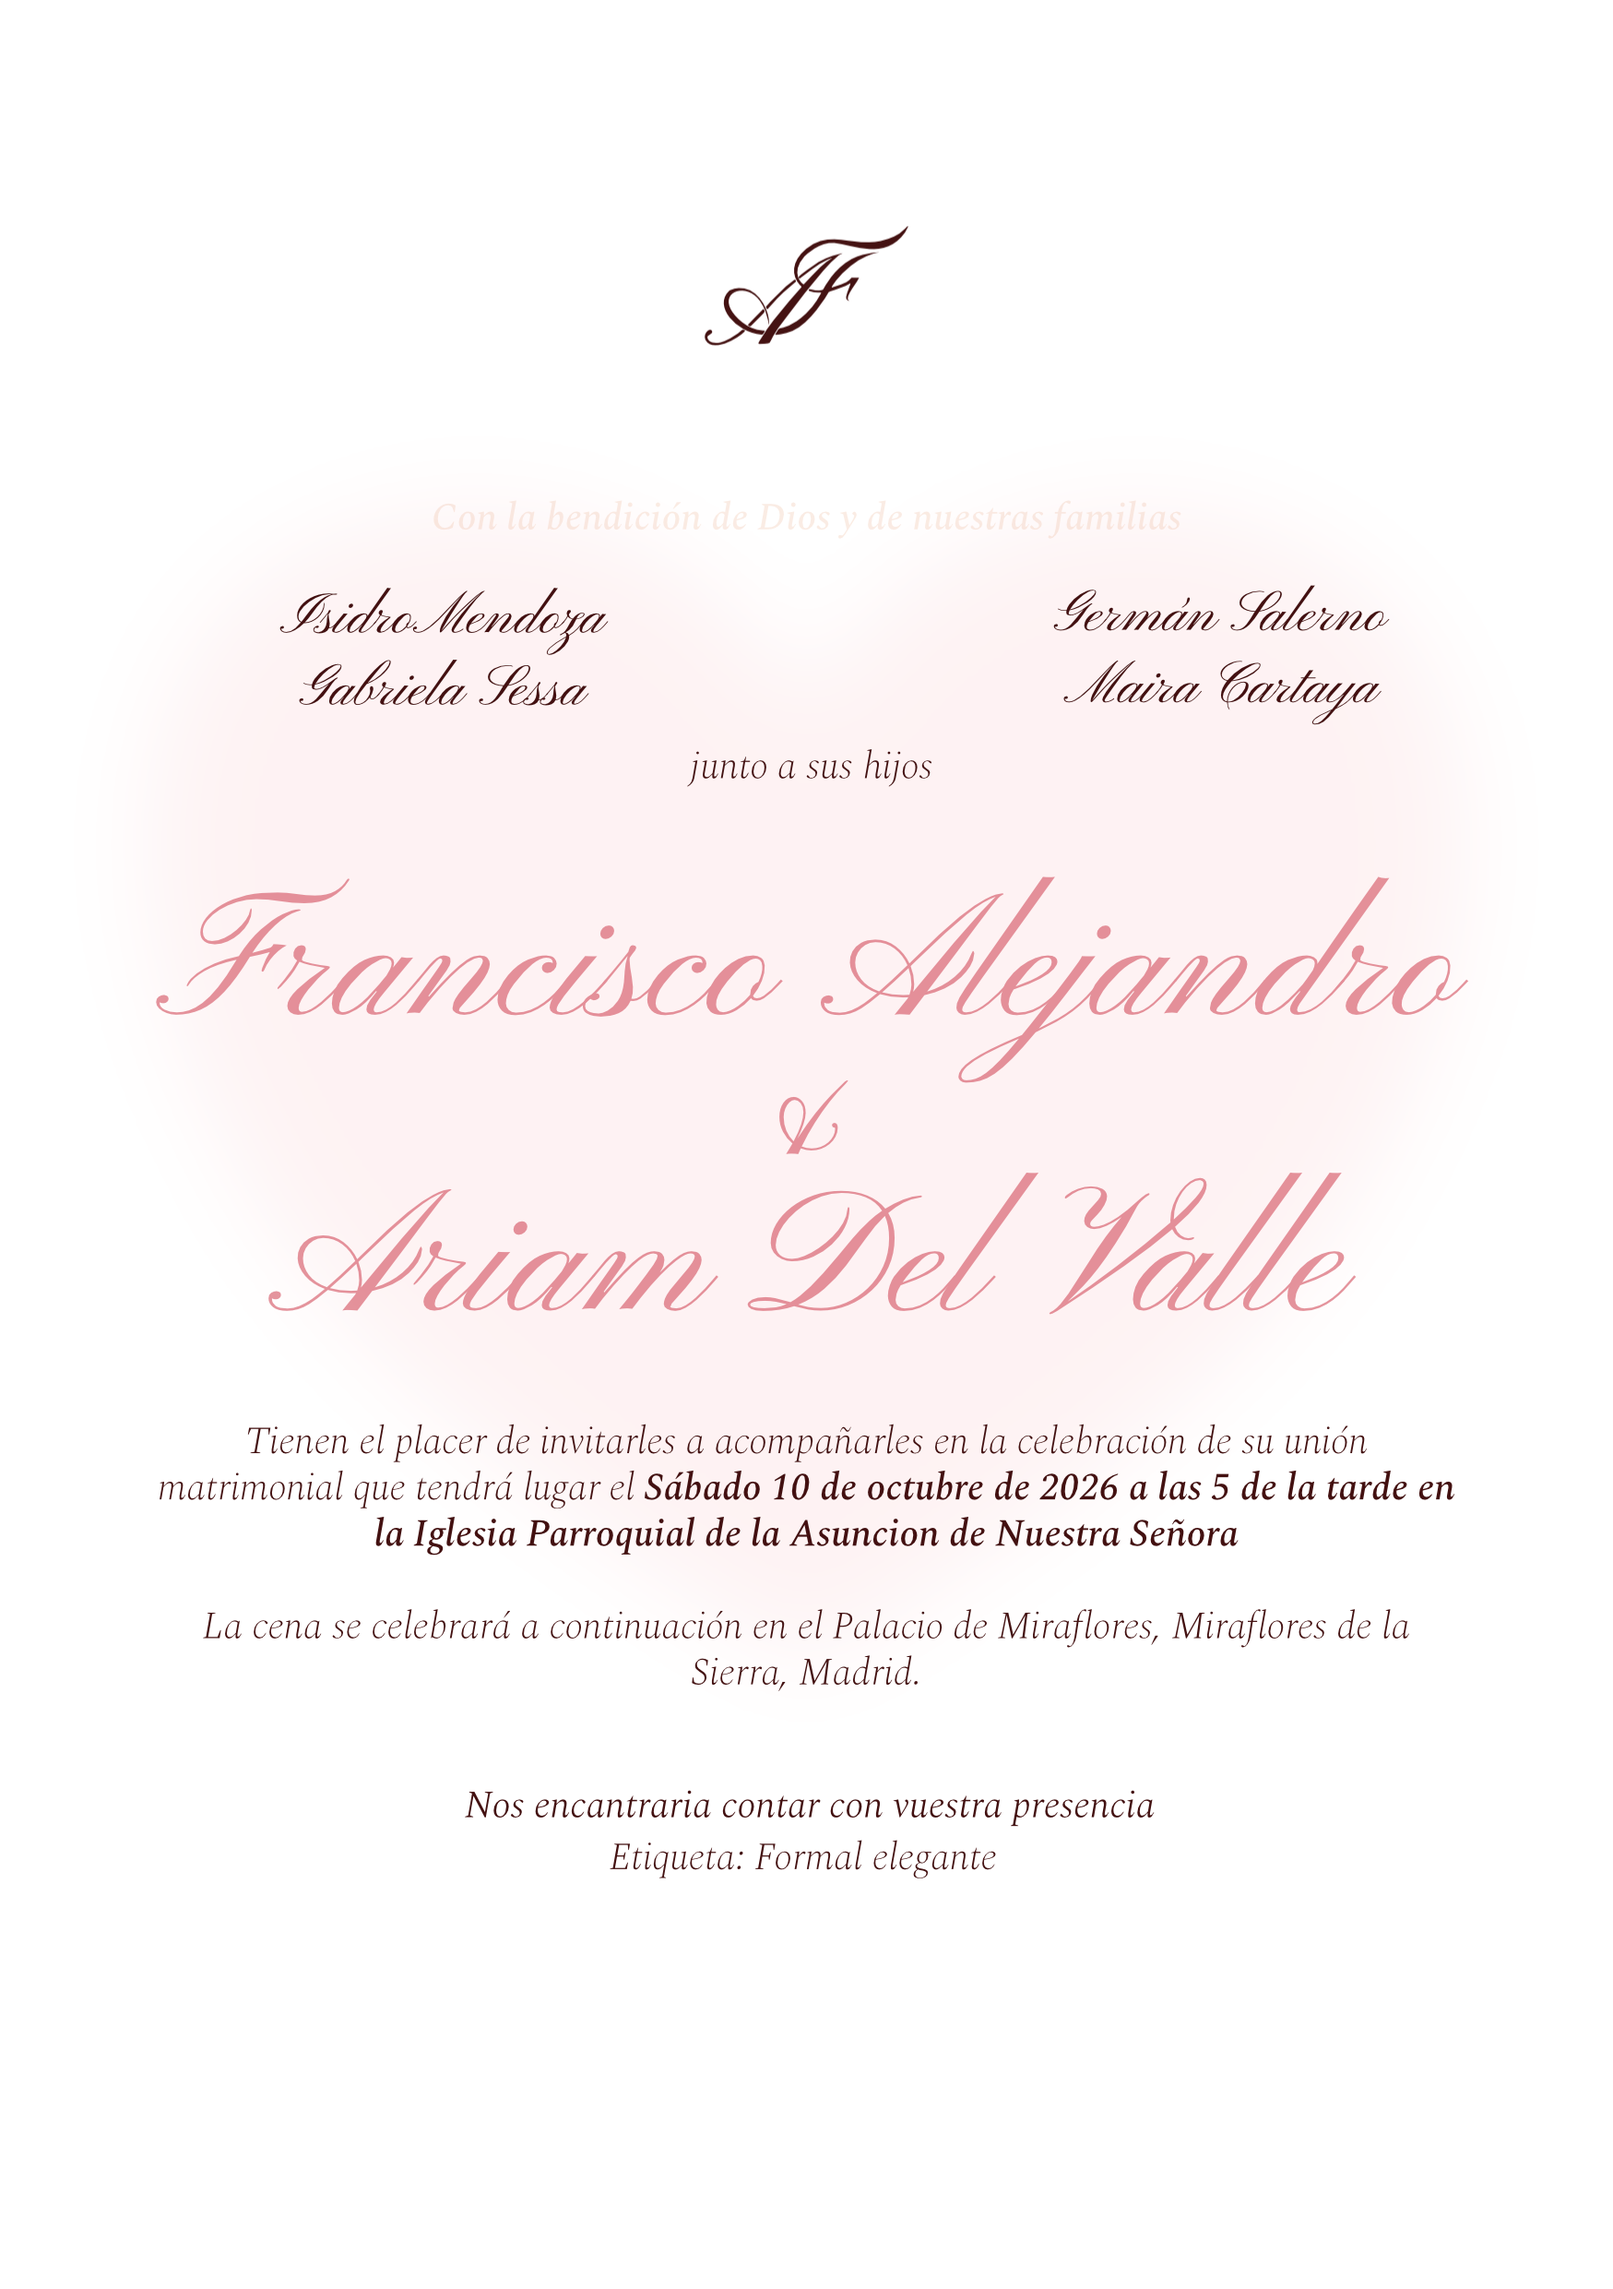
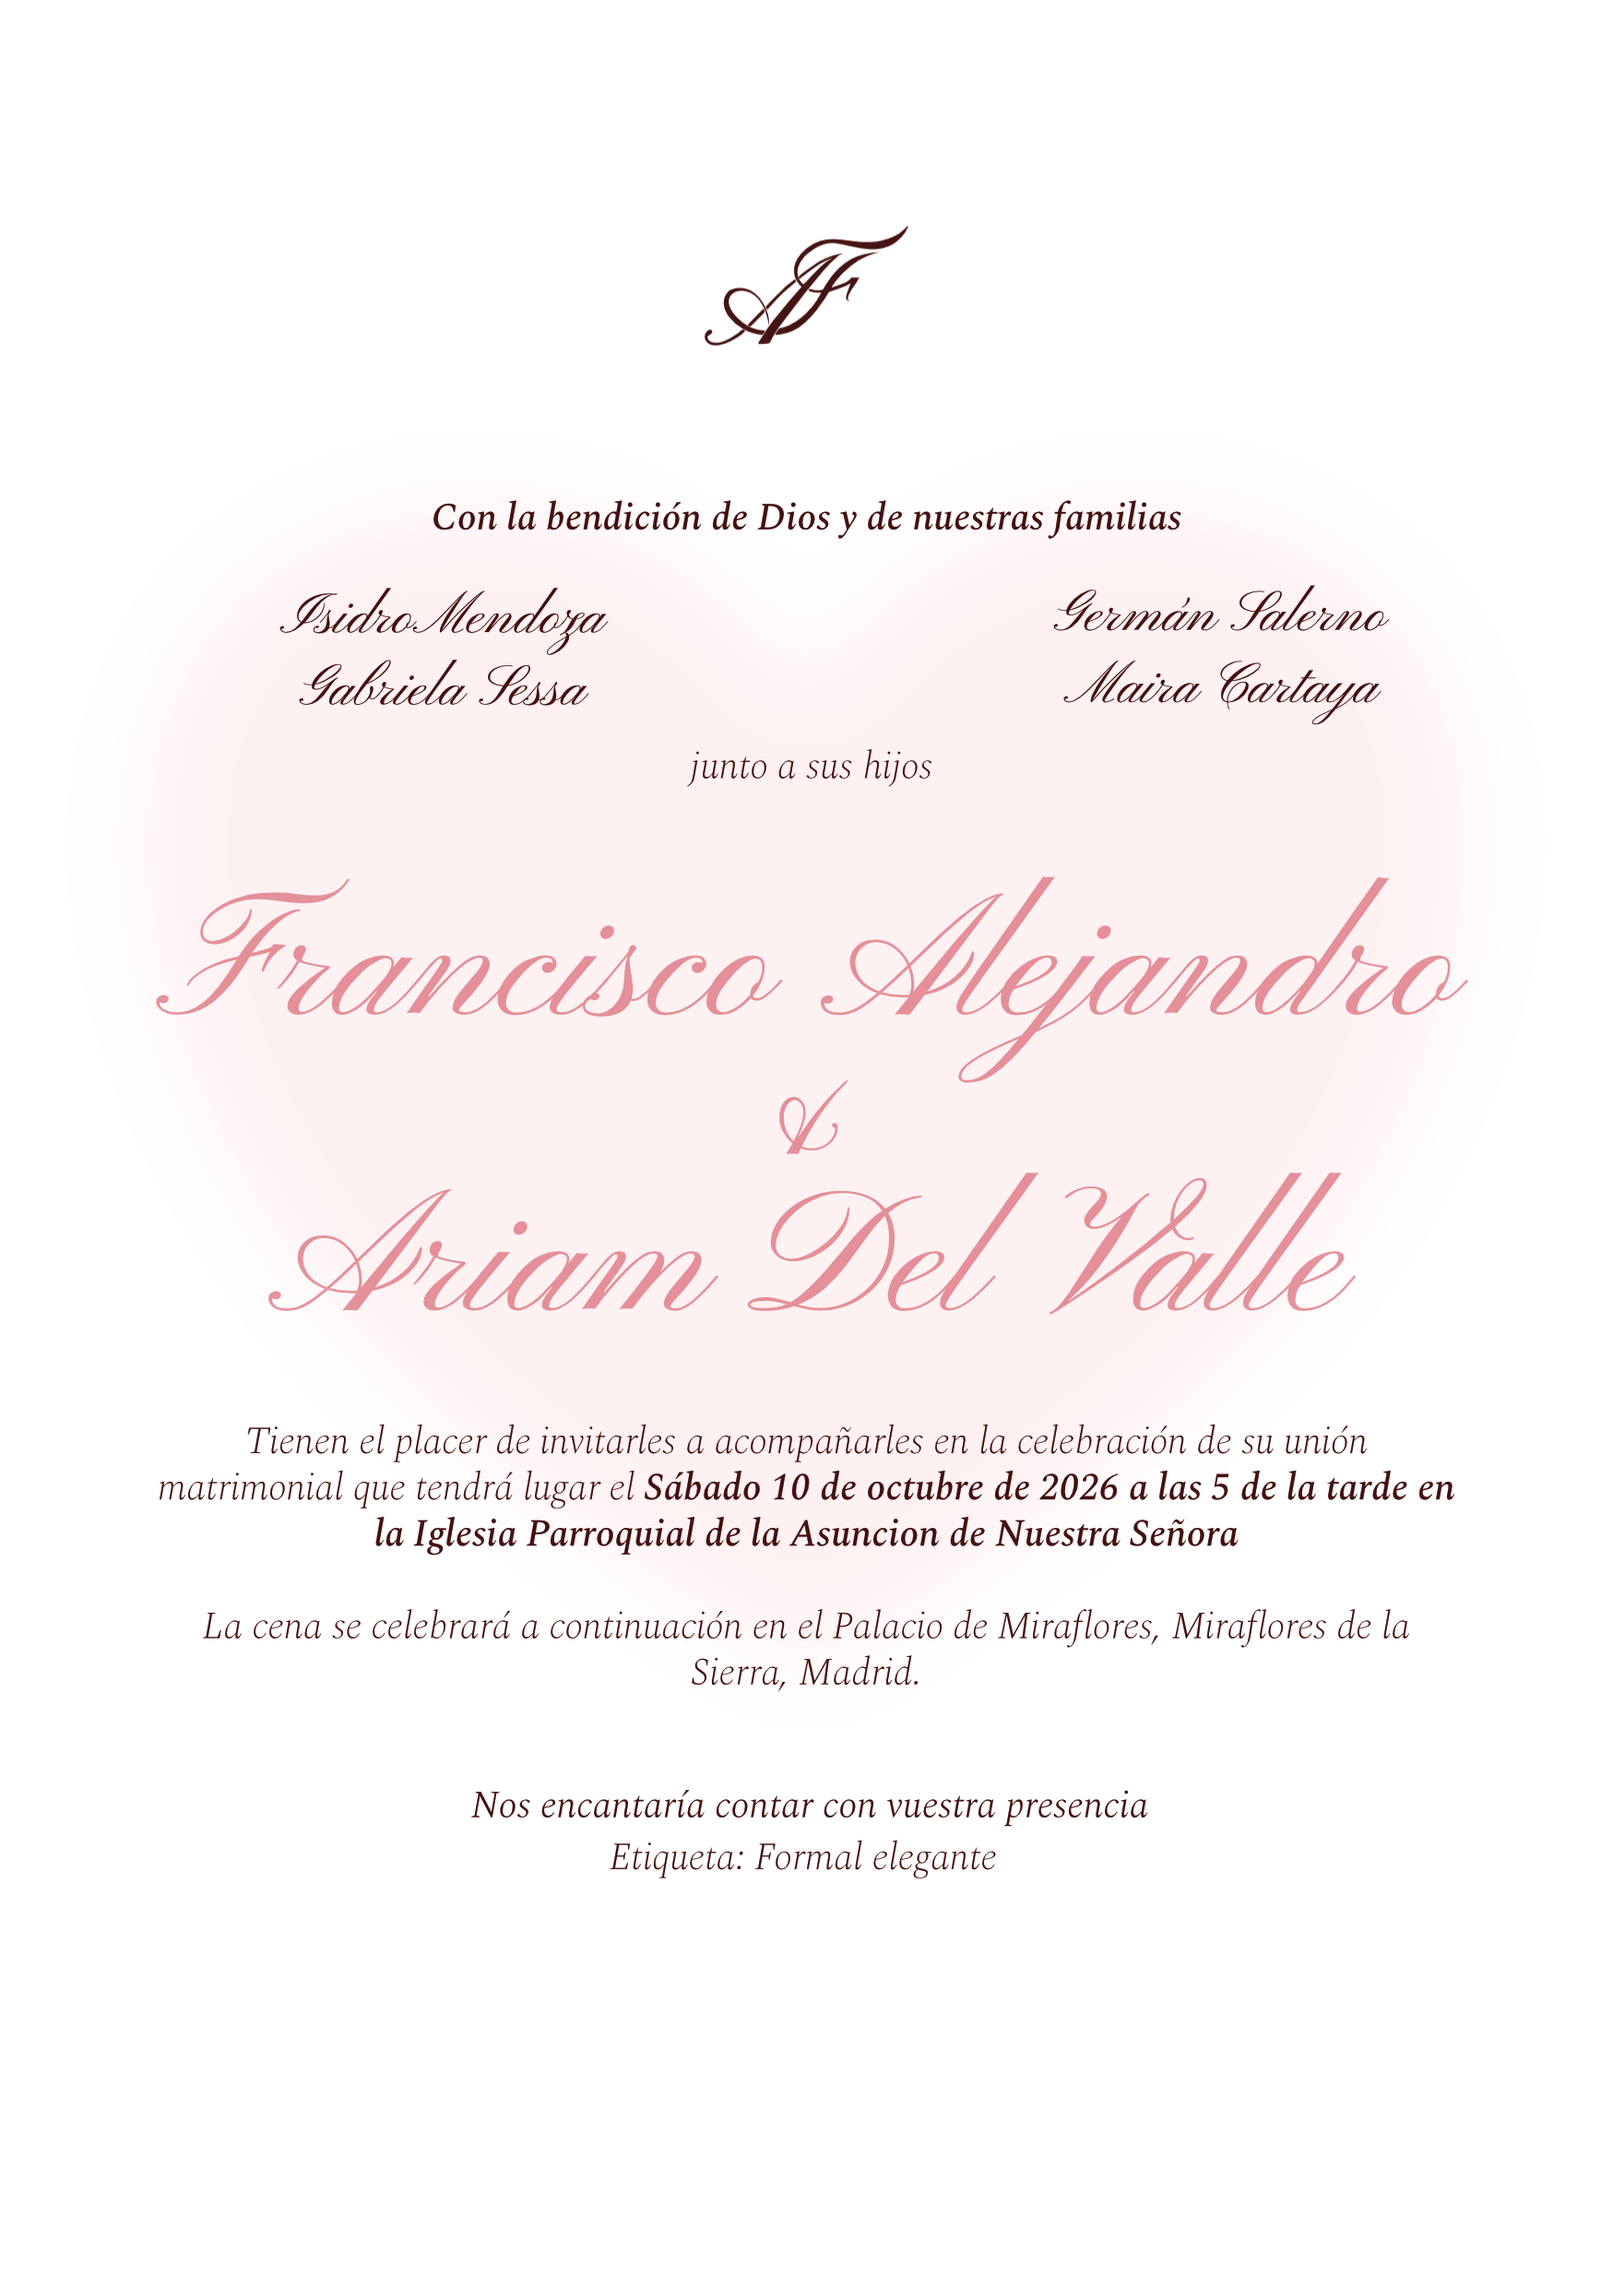
Update invitation assets and copy

diff --git a/index.html b/index.html
@@ -1,4 +1,4 @@
-<!DOCTYPE html>
+<!doctype html>
 <html lang="es">
   <head>
     <meta charset="UTF-8" />
@@ -97,7 +97,7 @@
             </p>
             <p>
               Mientras contamos los días para nuestra boda, hemos creado esta
-              web para mantenerles al tanto de lo que va ocurriendo.
+              web para que puedan conocer todos los detalles
             </p>
           </div>
         </div>
@@ -143,9 +143,9 @@
             <h2>La Celebración</h2>
             <p class="detail-item">
               <strong>El menú</strong><br />
-              En el <a href="rsvp.html">formulario de RSVP</a> podrán
-              indicarnos sus preferencias alimentarias o cualquier alergia que
-              debamos tener en cuenta.
+              En el <a href="rsvp.html">formulario de RSVP</a> podrán indicarnos
+              sus preferencias alimentarias o cualquier alergia que debamos
+              tener en cuenta.
             </p>
             <p class="detail-item">
               <strong>Código de vestimenta</strong><br />
@@ -164,19 +164,12 @@
 
       <section class="thanks-section">
         <div class="thanks-copy">
-          <p>
-            Gracias por acompañarnos en este momento tan especial.
-          </p>
-          <p>
-            Nos llena de ilusión poder celebrarlo con tu presencia.
-          </p>
+          <p>Gracias por acompañarnos en este momento tan especial.</p>
+          <p>Nos llena de ilusión poder celebrarlo con tu presencia.</p>
           <p>Con cariño,</p>
           <p>Ariam &amp; Francisco</p>
         </div>
-        <img
-          src="assets/images/THANKS.jpg"
-          alt="Ariam y Francisco brindando"
-        />
+        <img src="assets/images/THANKS.jpg" alt="Ariam y Francisco brindando" />
       </section>
     </main>
 
